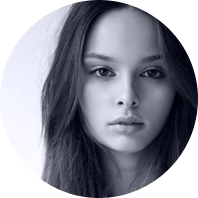
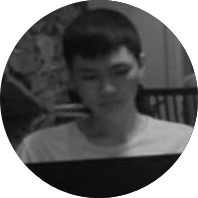
[update] image in homepage

diff --git a/components/home/index.vue b/components/home/index.vue
@@ -27,27 +27,24 @@
             <p class="sub-description">Dưới đây là một số tính năng nổi bật của project</p>
             <div class="list-function">
               <ul>
-                <!-- Đa dạng -->
                 <li>
                   <i class="fas fa-globe p-2 my-icon" />
                   <span>
-                    <h5>Đa dạng các loại nhu cầu</h5>
+                    <p class="title-feature">Đa dạng các loại nhu cầu</p>
                     <p class="sub-description">Làm đẹp, sự kiện, việc làm nhanh, việc làm part-time</p>
                   </span>
                 </li>
-                <!-- Phù hợp -->
                 <li>
                   <i class="far fa-envelope my-icon" />
                   <span>
-                    <h5>Tìm được người phù hợp</h5>
+                    <p class="title-feature">Tìm được người phù hợp</p>
                     <p class="sub-description">Làm đẹp, sự kiện, việc làm nhanh, việc làm part-time</p>
                   </span>
                 </li>
-                <!-- Phù hợp -->
                 <li>
                   <i class="fas fa-globe p-2 my-icon" />
                   <span>
-                    <h5>Mọi nhu cầu mọi lúc mọi nơi</h5>
+                    <p class="title-feature">Mọi nhu cầu mọi lúc mọi nơi</p>
                     <p class="sub-description">Làm đẹp, sự kiện, việc làm nhanh, việc làm part-time</p>
                   </span>
                 </li>
@@ -60,20 +57,20 @@
     <div class="container-fluid">
       <div class="guide-register">
         <div class="title-button">
-          <h3 class="title is-3 text">HƯỚNG DẪN ĐĂNG KÝ</h3>
-          <p class="text description">Bạn không hiểu đăng ký thế nào? Để tôi giúp bạn nhé</p>
+          <h3 class="title is-3 text">HƯỚNG DẪN SỬ DỤNG APP</h3>
+          <p class="text description">Dưới đây là một vài bước và một vài tính năng có trong app.</p>
           <div class="group-btn d-flex justify-content-center">
             <button
               type="button"
               class="btn my-button p-2"
             >
-              TÌM NGƯỜI
+              KHÁCH HÀNG
             </button>
             <button
               type="button"
               class="btn my-button p-2"
             >
-              TÌM VIỆC
+              NGƯỜI LÀM VIỆC
             </button>
           </div>
         </div>
@@ -85,37 +82,41 @@
                   <center>
                     <div class="cril">1</div>
                   </center>
-                  <p>Chọn chức năng</p>
+                  <p class="text-description">Đăng ký tài khoản</p>
                   <img
-                    src="/images/homepage/1.png"
-                    alt="">
+                    src="/images/homepage/screen1.png"
+                    alt=""
+                    class="image-guide">
                 </div>
                 <div class="col-sm-3 col-md-3 img-huong-dan-dk">
                   <center>
                     <div class="cril">2</div>
                   </center>
-                  <p>Chọn ứng viên</p>
+                  <p class="text-description">Đăng nhập tài khoản</p>
                   <img
-                    src="/images/homepage/2.png"
-                    alt="">
+                    src="/images/homepage/screen2.png"
+                    alt=""
+                    class="image-guide">
                 </div>
                 <div class="col-sm-3 col-md-3 img-huong-dan-dk">
                   <center>
                     <div class="cril">3</div>
                   </center>
-                  <p>Chọn nhu cầu</p>
+                  <p class="text-description">Yêu cầu công việc</p>
                   <img
-                    src="/images/homepage/3.png"
-                    alt="">
+                    src="/images/homepage/screen3.png"
+                    alt=""
+                    class="image-guide">
                 </div>
                 <div class="col-sm-3 col-md-3 img-huong-dan-dk">
                   <center>
                     <div class="cril">4</div>
                   </center>
-                  <p>Hoàn thành</p>
+                  <p class="text-description">Quét xung quanh</p>
                   <img
-                    src="/images/homepage/4.png"
-                    alt="">
+                    src="/images/homepage/screen4.png"
+                    alt=""
+                    class="image-guide">
                 </div>
               </div>
             </div>
@@ -167,7 +168,6 @@
               </li>
             </ul>
           </div>
-
           <div class="wrap-img-profile">
             <a
               href="#"
@@ -250,7 +250,6 @@
               </li>
             </ul>
           </div>
-
           <div class="wrap-img-profile">
             <a
               href="#"
@@ -266,7 +265,7 @@
                   alt="">
               </div>
               <span class="position">FontEnd</span>
-              <h4><span>Kathy</span> Watkins</h4>
+              <h4><span>PhongPV</span> Phong Phạm</h4>
             </a>
             <ul class="d-flex justify-content-center">
               <li class="p-2">
@@ -306,16 +305,16 @@
               class="member-profile">
               <div class="unhover_img">
                 <img
-                  src="/images/homepage/speaker-4.png"
+                  src="/images/homepage/speaker-5.png"
                   alt="">
               </div>
               <div class="hover_img">
                 <img
-                  src="/images/homepage/speaker-4-hover.png"
+                  src="/images/homepage/speaker-5-hover.png"
                   alt="">
               </div>
               <span class="position">FrontEnd</span>
-              <h4><span>Kathy</span> Watkins</h4>
+              <h4><span>TuND</span> Mark Allen</h4>
             </a>
             <ul class="d-flex justify-content-center">
               <li class="p-2">
@@ -359,6 +358,16 @@
 
 <style lang="scss" scoped>
 @import '~/assets/scss/variable.scss';
+.title-feature {
+  font-size: 1.2rem;
+}
+.image-guide {
+  width: 87%;
+}
+.text-description {
+  font-family: $font-family-main !important;
+  font-size: 19px !important;
+}
 .text-para {
   margin-top: 25px;
 }
@@ -412,12 +421,12 @@
         ul {
           margin-left: 30px;
           li {
-            padding-top: 35px;
+            padding-top: 60px;
             .my-icon {
               color: white;
               background-color: $color-main;
               border-radius: 50%;
-              padding: 15px !important;
+              padding: 21px !important;
               margin-right: 20px;
               float: left;
               clear: both;
@@ -439,7 +448,7 @@
     }
     .description {
       font-style: italic;
-      font-size: 12px;
+      font-size: 15px;
       padding-bottom: 22px;
     }
     .group-btn {
@@ -486,7 +495,7 @@
       }
     }
     .my-tab-content {
-      padding-bottom: 50px;
+      padding-bottom: 100px;
     }
   }
   .team-page {
